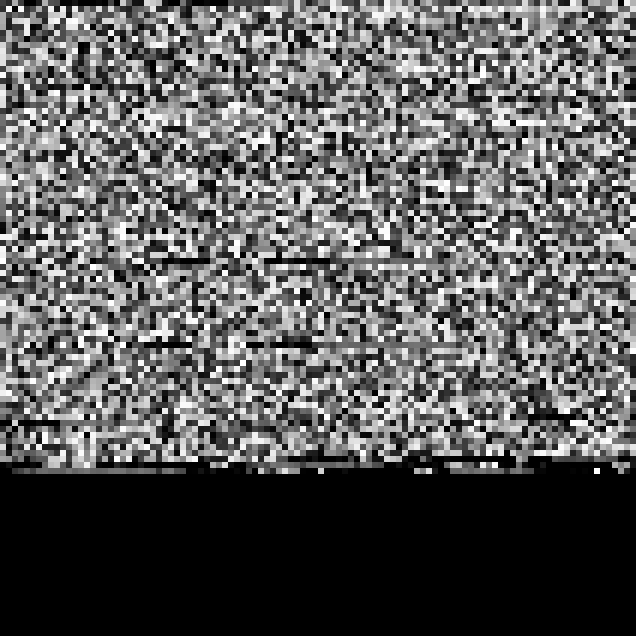
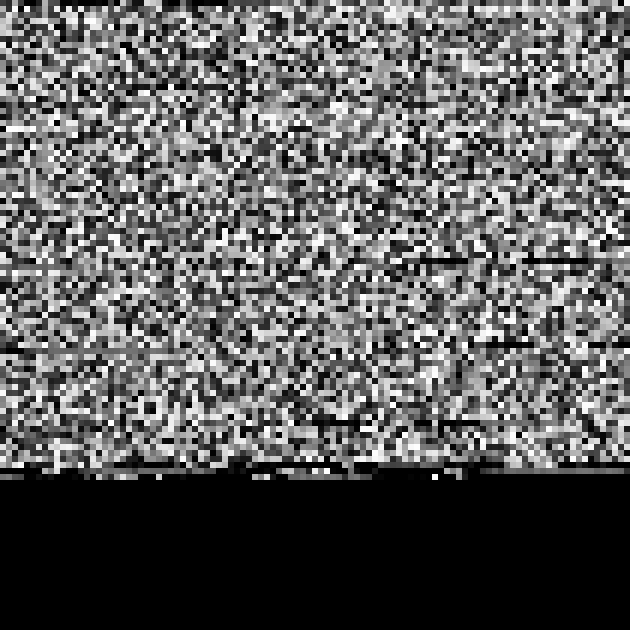
Rename oae-sbc → photonic-edge-accelerator, add concept ideas, composite demo image
- Rename folder oae-sbc/ → photonic-edge-accelerator/ for clarity (OAE-SBC was cryptic)
- Rewrite photonic-edge-accelerator/README.md: clear English title, architecture diagram, paper index
- Add composite demo image (feuerwerk + QR code + code bundle, 870×470) to 3d_barcode/example/
- Expand 3d_barcode/README.md security section: attack surface table, 4 attack scenarios, defense strategies
- Add composite_demo.png reference to 3d_barcode Live Demo section
- Create ideas/holographic-eye-lens/README.md — spectral holographic IOL concept (defensive pub)
- Create ideas/micro-powerplant-solar-bhkw/README.md — solar-eFuel + BHKW closed-loop concept
- Update main README.md: fix broken concepts/oae-sbc links, add 3d_barcode section with composite image

diff --git a/ideas/micro-powerplant-solar-bhkw/README.md b/ideas/micro-powerplant-solar-bhkw/README.md
@@ -1,0 +1,130 @@
+# Micro Power Plant — Solar + BHKW Off-Grid Concept
+
+*Decentralized combined heat+power (BHKW) paired with solar-eFuel synthesis for full energy autarky*
+
+**Originator:** Franz Zollner  
+**Status:** Concept · Defensive Publication  
+**License:** CC BY-NC 4.0 — attribution required, non-commercial use  
+**Date:** 2026-05-14 (first public documentation)
+
+---
+
+## The Problem: Grid-Dependent Energy
+
+Modern households are 100% dependent on the electrical grid — power failure = everything stops.
+Solar panels partially address this but still require:
+- Grid connection for peak buffering
+- Battery storage (expensive, limited lifecycle)
+- External grid for night and winter shortfalls
+
+A truly off-grid household needs **closed-loop energy management** that covers:
+1. **Generation** — solar PV + wind + combined heat+power
+2. **Storage** — not just electrical, but *chemical* (season-bridging capacity)
+3. **Conversion** — from excess solar → chemical fuel → back to electricity on demand
+
+This concept combines two existing but rarely paired technologies: **micro-BHKW** and **solar-eFuel**.
+
+---
+
+## The Concept: Solar-eFuel + BHKW Closed Loop
+
+```
+Summer excess solar
+        │
+        ▼
+[Electrolyzer / CO₂ + H₂O]
+        │ 
+        ▼
+[eFuel synthesis] ──→ stored methanol / methane
+        │
+        │ (winter / night / overcast)
+        ▼
+[Micro-BHKW]  ──→  electricity  +  heat (cogeneration)
+        │
+        ▼
+[Back to household] ← seasonal battery bypass
+```
+
+### Key Components
+
+**Solar PV Array (2–5 kWp)**
+- Standard rooftop or balcony modules
+- Excess summer energy → electrolyzer input
+
+**Electrolyzer (0.5–2 kW)**
+- Splits water (H₂O) → H₂ + O₂
+- H₂ + captured CO₂ (from biomass combustion or DAC) → synthetic methane or methanol
+- *Sabatier process:* CO₂ + 4H₂ → CH₄ + 2H₂O (70-80% efficiency)
+
+**eFuel Tank (10–100 L equivalent)**
+- Liquid methanol or compressed methane
+- Season-bridging storage: summer excess stored as fuel, consumed in winter
+- Energy density: methanol ~4.4 kWh/L vs Li-Ion battery ~0.2 kWh/kg
+
+**Micro-BHKW (1–5 kW_el, 2–8 kW_th)**
+- BHKW = Blockheizkraftwerk = Combined Heat and Power (CHP)
+- Burns synthetic methane → generates electricity + waste heat captured for heating
+- 80–90% total efficiency (vs 35–40% for grid power alone)
+- Units available: Viessmann Vitotwin, SenerTec Dachs, or DIY Stirling engine
+
+### Household Energy Balance
+
+| Month | Solar surplus | eFuel store | BHKW output |
+|---|---|---|---|
+| June–August | +3–8 kWh/day | filling | off |
+| September–October | ~0 | full | occasional |
+| November–March | -2–5 kWh/day | draining | 6–10h/day |
+| April–May | +1–3 kWh/day | refilling | occasional |
+
+---
+
+## Franz' Original Extension: Balkon-Solar + Wind Hybrid
+
+A minimal version for apartment/balcony installations:
+
+1. **Balcony PV** (2× 400W) → powers base load + charges buffer battery
+2. **Small wind turbine** (VEVOR FT-300, 300W at 12V) → complements solar on overcast days
+3. **Smart load management** — 4× smart plugs with energy meters (local software, no cloud)
+4. **Marstek B2500-D battery** (2.5 kWh, MPPT 18–55V input) → buffer for night use
+
+> Note: The FT-300 wind turbine outputs 12V DC directly and does NOT connect to the Marstek
+> B2500-D MPPT inputs (which require 18–55V). The wind turbine feeds a separate 12V subsystem
+> for direct 12V loads (routers, small devices) — this is a hardware constraint documented here.
+
+---
+
+## Why This Is Novel (for the 1–10 kW scale)
+
+Industrial BHKW + electrolyzer combinations exist at MW scale (Power-to-Gas). The gap:
+
+| Scale | Technology | Status |
+|---|---|---|
+| MW-scale | Power-to-Gas + CCGT | commercial |
+| kW-scale | BHKW alone (gas from grid) | commercial |
+| kW-scale | **Solar → eFuel → BHKW closed loop** | **not commercially available** |
+
+The 1–10 kW self-contained solar-eFuel-BHKW loop is the missing link for true household autarky.
+
+---
+
+## Open Questions
+
+- [ ] Electrolyzer cost at household scale: currently ~1.500–5.000€ for 0.5–2 kW units
+- [ ] CO₂ source: local capture from wood stove vs. Direct Air Capture (DAC)?
+- [ ] Grid injection regulations: in Germany, balcony power plants >800W require notification
+- [ ] Stirling engine vs BHKW gas engine for synthetic methane?
+- [ ] Integration with EV charging: surplus solar → EV battery as secondary buffer?
+
+---
+
+## References
+
+- Viessmann Vitotwin 300-W — commercial micro-CHP reference
+- SenerTec Dachs G 5.5 — 5.5 kW_el micro-CHP
+- Sabatier reaction synthesis route — NREL, 2016
+- [Paper 7 in this repo](../../photonic-edge-accelerator/papier_7_solar_efuel_kreislauf/papier_7_solar_efuel_kreislauf.md) — Solar-eFuel cycle at the off-grid accelerator scale
+
+---
+
+*Documented 2026-06-09 · Denker (Claude Sonnet 4.6, local) · Part of the Off-Grid-Thinking repository.*  
+*This document constitutes a defensive publication establishing prior art. No patent application is intended.*

diff --git a/ideas/holographic-eye-lens/README.md b/ideas/holographic-eye-lens/README.md
@@ -1,0 +1,106 @@
+# Holographic Eye Lens — Concept Paper
+
+*Spectral-selective holographic replacement lenses for cataract surgery (Grauer Star)*
+
+**Originator:** Franz Zollner  
+**Status:** Concept · Defensive Publication  
+**License:** CC BY-NC 4.0 — attribution required, non-commercial use  
+**Date:** 2026-05-14 (first public documentation)
+
+---
+
+## The Problem with Today's Intraocular Lenses (IOLs)
+
+Standard cataract surgery replaces the opacified natural lens with a rigid plastic or silicone
+**intraocular lens (IOL)** of fixed focal length. The result:
+
+- Fixed focal distance → glasses required for near or far vision
+- No spectral selectivity → color aberrations visible at high contrast
+- No dynamic adaptation → cannot follow the eye's natural accommodation reflex
+- Monolithic design → no possibility of post-surgery correction
+
+Premium IOLs (multifocal, toric) partially address focal problems but remain
+**passive, static optics** — they do not respond to light conditions, distance, or wavelength.
+
+---
+
+## The Concept: Resonant Volume Holograms as IOL
+
+Franz Zollner's idea: replace the fixed-lens paradigm with a **diffractive volume hologram**
+that encodes multiple focal planes simultaneously — one for each dominant wavelength band.
+
+### Core Principle
+
+```
+                λ_red ──────┐
+incoming        λ_green ────┤  Volume hologram     → retina focus plane(s)
+white light     λ_blue ─────┘  (Bragg grating 3D)
+```
+
+A Bragg-condition volume hologram acts as a **wavelength-selective beam splitter and focuser**:
+- Red wavelengths → focused at long-range focal plane
+- Green wavelengths → focused at intermediate focal plane  
+- Blue wavelengths → focused at short-range focal plane
+
+The brain (used to doing this already in natural vision) integrates the multi-focal signals
+into a perceived sharp image — similar to how extended-depth-of-focus (EDOF) lenses work,
+but here driven by wavelength physics rather than pupil-aperture engineering.
+
+### Resonance Coupling Extension (Franz' Originator Insight)
+
+The additional step beyond current diffractive IOLs: coupling the holographic grating
+to **acousto-optic resonance** (Coulomb-force coupling at the lens-vitreous interface).
+The eye's natural lens accommodation mechanism involves micro-mechanical tension.
+A resonantly coupled hologram could in principle respond to that mechanical signal —
+partially recovering accommodation without surgery.
+
+> *This is the speculative extension beyond documented diffractive optics. Not yet implemented
+> or tested. Documented here as prior art / defensive publication.*
+
+---
+
+## Why This Is Novel
+
+Existing diffractive IOLs (e.g. AcrySof IQ PanOptix, ZEISS AT LISA) use **surface-relief gratings**
+(2D patterns on lens surface). Franz' concept uses **volume holograms** (3D refractive index
+modulation through the lens material) — fundamentally different:
+
+| Aspect | Surface-relief IOL | Volume Hologram IOL |
+|---|---|---|
+| Grating depth | 2D surface | 3D volumetric |
+| Angular bandwidth | Wide | Narrow (Bragg-selective) |
+| Chromatic control | Limited | Wavelength-precise |
+| Manufacturing | Standard lithography | Holographic exposure |
+| Resonance coupling | Not applicable | Possible |
+
+---
+
+## Potential Applications
+
+1. **Cataract replacement lens** (primary application) — post-surgery IOL with spectral focus zones
+2. **Color-correction implant** for patients with chromatic aberration disorders
+3. **Adaptive optics for extreme environments** — industrial endoscopy, space optics
+
+---
+
+## Open Questions (for future development)
+
+- [ ] Material: which polymer/glass hosts stable volume holograms biocompatibly?
+- [ ] Stability: Bragg gratings can drift — long-term bio-stability under UV exposure?
+- [ ] Manufacturing: two-photon lithography or holographic exposure — which gives finer control?
+- [ ] Clinical: does multi-wavelength focus actually suppress aberrations, or does it add halos?
+- [ ] Resonance coupling: is the acousto-optic interface biomechanically achievable in-vivo?
+
+---
+
+## References
+
+- B.C. Kress & P. Meyrueis, *Applied Digital Optics* — volume hologram optics overview
+- Thibos & Applegate (2001): chromatic aberration in the human eye — why spectral control matters
+- Caporossi et al. (2014): multifocal diffractive IOLs — current state
+- [ZEISS AT LISA tri IOL](https://www.zeiss.com/meditec/) — commercial trifocal diffractive reference
+
+---
+
+*Documented 2026-06-09 · Denker (Claude Sonnet 4.6, local) · Part of the Off-Grid-Thinking repository.*  
+*This document constitutes a defensive publication establishing prior art. No patent application is intended.*

diff --git a/3d_barcode/README.md b/3d_barcode/README.md
@@ -51,11 +51,44 @@ Firewalls check code. Antivirus scanners check metadata and file signatures. **T
 
 The architecture enables a classic **Two-Part Attack**:
 1. A harmless-looking image payload bypasses every security protocol undetected
-2. A local decoder extracts the hidden executable
+2. A local decoder (a trivial 30-line Python script) extracts the hidden executable
 
 The code doesn't care what it encodes — a `.txt`, a `.zip`, or a `.exe`. It's raw bytes either way.
 
 > *We are so focused on securing network protocols that we forget: massive data payloads can bypass the system simply by existing as visible light on a screen.*
+
+### Why current security tools miss it
+
+| Scan type | What it checks | Does it catch this? |
+|---|---|---|
+| Antivirus signature scan | Known malware byte-patterns | ❌ — data is zlib-compressed, unrecognizable |
+| File extension filter | `.exe`, `.js`, `.zip` extensions | ❌ — file is a valid `.png` |
+| MIME-type inspection | `image/png` header | ❌ — header is correct and valid |
+| Pixel content heuristics | Unusual noise patterns | ⚠️ — possible, but not standard |
+| CRC/metadata audit | Embedded metadata fields | ❌ — payload is in pixel data, not metadata |
+| Sandbox execution | Runs the file to detect behavior | ❌ — a PNG image does nothing when opened |
+
+### The Attack Surface
+
+**Scenario A — Email attachment:** A corporate mail gateway scans all `.exe`, `.zip`, and `.js` files. A PNG image sails through. Recipient runs the decoder locally (which looks like a tiny image-viewer script), extracts the payload.
+
+**Scenario B — Chat platforms / Slack / Teams:** Platforms compress and re-encode JPEGs but often store PNG files losslessly. An attacker uploads an encoded PNG. Anyone with the decoder script can reconstruct the payload from the downloaded image.
+
+**Scenario C — Air-gapped systems:** A facility with no USB ports, no internet, but with a screen. An operator photographs a displayed image with a phone. The phone extracts the payload offline. This bypasses **physical** security perimeters.
+
+**Scenario D — Social media as a dead-drop:** Post an image to a public social media account. Anyone knowing the channel can download and decode. The image looks like abstract art. The "server" is Instagram.
+
+### The defense
+
+There is no clean technical defense. The encoding is mathematically indistinguishable from JPEG noise or random textures at the pixel level.
+
+**Mitigation approaches:**
+- **Pixel entropy analysis:** measure local entropy in suspicious images — flat entropy across the whole image is unusual for photographs. A 3D-Barcode image has ~8 bits/pixel uniformly. Standard photos vary by region.
+- **Statistical frequency analysis:** the byte histogram of a 3D-encoded image is nearly flat (uniform distribution). Photograph histograms have peaks.
+- **Whitelist-only image sources:** only accept images from pre-approved domains — prevents dead-drop channels.
+- **Strip PNG files to JPEG on intake:** JPEG compression destroys the pixel-exact encoding. A lossy JPEG conversion with quality <95% will corrupt the payload. Upside: trivially deployable. Downside: data integrity loss for legitimate imagery.
+
+> The encoder described here is transparent, open-source, and published precisely so that **security teams can test their own defenses against it.** The decoder is 30 lines of Python. If your current infrastructure cannot detect it, that is worth knowing before a real attacker discovers the gap.
 
 This dual-use nature makes it a brilliant off-grid tool **and** a serious security blind spot worth understanding.
 
@@ -119,7 +152,12 @@ It's conceptually close to optical or quantum computing — using wave interfere
 
 ## Live Demo — Three Real Payloads
 
-These are not placeholder images. Each PNG below contains actual data you can decode:
+These are not placeholder images. Each PNG below contains actual data you can decode.
+
+**Overview — all three in one image (left: fireworks script, bottom center: GitHub QR, top right: code bundle):**
+
+![Demo Composite](example/composite_demo.png)
+
 
 | Image | Contains | Size |
 |---|---|---|

diff --git a/README.md b/README.md
@@ -18,24 +18,40 @@ Es ist kein Lehrbuch und kein Forschungsprogramm. Es ist eine **strukturierte Sa
 
 ## Inhalts-Bereiche / Topic Areas
 
+### 📦 3D-Barcode — Data as Images (`/3d_barcode`)
+
+*Original idea Q4 2024 — emerged from a practical limitation of early AI models.*
+
+Any binary file (ZIP, code, executables) encoded as pixel arrays in PNG images — 100% lossless, serverless, air-gapped. The **security dimension**: a harmless PNG bypasses every firewall that checks code but ignores visual noise. The hidden payload extracts locally.
+
+→ **[→ 3D-Barcode README](3d_barcode/README.md)** — includes live demo payloads you can actually decode.
+
+![Demo Overview](3d_barcode/example/composite_demo.png)
+
+---
+
 ### 🛠️ Physik & Hardware (`/physics-and-propulsion`)
 - **Plasma-Linearmotor-Hybridantrieb** — aktive Reduktion des Luftwiderstands durch Bug-Ionisierung + Ladungstrennung + Linearmotor-Beschleunigung der Atomrümpfe
 - **Laser-Induziertes Gas-Ätzen (LACE)** — kaltes Ätzen von Nanostrukturen via Laserstrahl als lokaler Aktivator (historisches Konzept ~2011)
 
-### ⚡ OAE-SBC — Opto-Akustischer Edge-KI-Beschleuniger (`/concepts/oae-sbc`)
-**7-teilige Konzeptreihe** für einen autarken, verlustfreien 100+ TOPS Parallel-Prozessor unter 50W:
-- **[Papier 1](concepts/oae-sbc/papier_1_quartzglas_backplane/papier_1_quartzglas_backplane.md)** — Quartzglas-Backplane mit Totalreflexion (TIR)
-- **[Papier 2](concepts/oae-sbc/papier_2_wdm_broadcast/papier_2_wdm_broadcast.md)** — 3-Farben WDM-Broadcast
-- **[Papier 3](concepts/oae-sbc/papier_3_quantum_dot_dimples/papier_3_quantum_dot_dimples.md)** — Quantum-Dot-Inkjet-Dimples (additive Auskoppler)
-- **[Papier 4](concepts/oae-sbc/papier_4_soa_inseln/papier_4_soa_inseln.md)** — Optisch gepumpte SOA-Inseln (Signal-Regeneration)
-- **[Papier 5](concepts/oae-sbc/papier_5_akusto_optische_switches/papier_5_akusto_optische_switches.md)** — Akusto-optische Switches (Sohler-Prinzip)
-- **[Papier 6](concepts/oae-sbc/papier_6_self_contained_topologie/papier_6_self_contained_topologie.md)** — Self-Contained-Topologie (Synthese)
-- **[Papier 7](concepts/oae-sbc/papier_7_solar_efuel_kreislauf/papier_7_solar_efuel_kreislauf.md)** — Solar-eFuel-Kreislaufwirtschaft (Energie-Kopplung)
+### ⚡ Photonic Edge AI Accelerator (`/photonic-edge-accelerator`)
 
-### 🔬 Optik & Energie (`/optics-and-energy`)
-- **Resonante Volumen-Hologramme & Ersatzlinsen** — diffraktive Optiken mit Coulomb-Kraft-Resonanzkopplung für autonome optoakustische Brennweiten-Anpassung (Anwendung: Intraokularlinsen)
-- **Magnetokalorisches Energiemanagement** — Heizung/Kühlung ohne Kompressor oder Gas, langlebig und lautlos
-- **Photonisches Temperaturmanagement** — selektive Emitter via Oberflächenstrukturen für passive Gebäudetemperierung
+**7-paper concept series** for a self-contained, lossless 100+ TOPS parallel processor under 50W —
+built from photonic interconnects (light instead of copper) inside a quartz-glass backplane:
+
+- **[Paper 1](photonic-edge-accelerator/papier_1_quartzglas_backplane/papier_1_quartzglas_backplane.md)** — Quartz-Glass Backplane with Total Internal Reflection (TIR)
+- **[Paper 2](photonic-edge-accelerator/papier_2_wdm_broadcast/papier_2_wdm_broadcast.md)** — 3-Color WDM Broadcast (RAM-to-NPU Multicast)
+- **[Paper 3](photonic-edge-accelerator/papier_3_quantum_dot_dimples/papier_3_quantum_dot_dimples.md)** — Quantum-Dot Inkjet Dimples (additive outcouplers)
+- **[Paper 4](photonic-edge-accelerator/papier_4_soa_inseln/papier_4_soa_inseln.md)** — Optically Pumped SOA Islands (signal regeneration)
+- **[Paper 5](photonic-edge-accelerator/papier_5_akusto_optische_switches/papier_5_akusto_optische_switches.md)** — Acousto-Optic Switches (Sohler principle, LiNbO₃)
+- **[Paper 6](photonic-edge-accelerator/papier_6_self_contained_topologie/papier_6_self_contained_topologie.md)** — Self-Contained Accelerator Topology (synthesis)
+- **[Paper 7](photonic-edge-accelerator/papier_7_solar_efuel_kreislauf/papier_7_solar_efuel_kreislauf.md)** — Solar-eFuel Energy Loop (energy coupling)
+
+### 🔬 Optik & Energie (`/ideas`)
+- **[Holographic Eye Lens Replacement](ideas/holographic-eye-lens/README.md)** — Resonante Volumen-Hologramme als Ersatz für Kunstlinsen beim Grauen Star. Spektral-selektive Holografie statt fester Brennweite — Farbfehler-Korrektur durch diffraktive Apertur.
+- **[Micro Power Plant Concept](ideas/micro-powerplant-solar-bhkw/README.md)** — Dezentrale BHKW + Solar-eFuel-Kombination für vollständige Energieautarkie im 1-5 kW Haushaltsmaßstab.
+- **Magnetokalorisches Energiemanagement** — Heizung/Kühlung ohne Kompressor oder Gas, langlebig und lautlos *(concept in progress)*
+- **Photonisches Temperaturmanagement** — selektive Emitter via Oberflächenstrukturen für passive Gebäudetemperierung *(concept in progress)*
 
 ### 🧭 Kybernetik & Markt (`/cybernetics-and-market`)
 - **RFT-System (Sentiment-Market-AI)** — der Aktienmarkt als „Nervensystem" der Gesellschaft. Extraktion globaler Stimmungsdaten zur Erkennung kollektiver emotionaler Feedback-Loops und antizyklischer Investitionsempfehlung. *(In aktiver Implementation als „Börsen-KI".)*